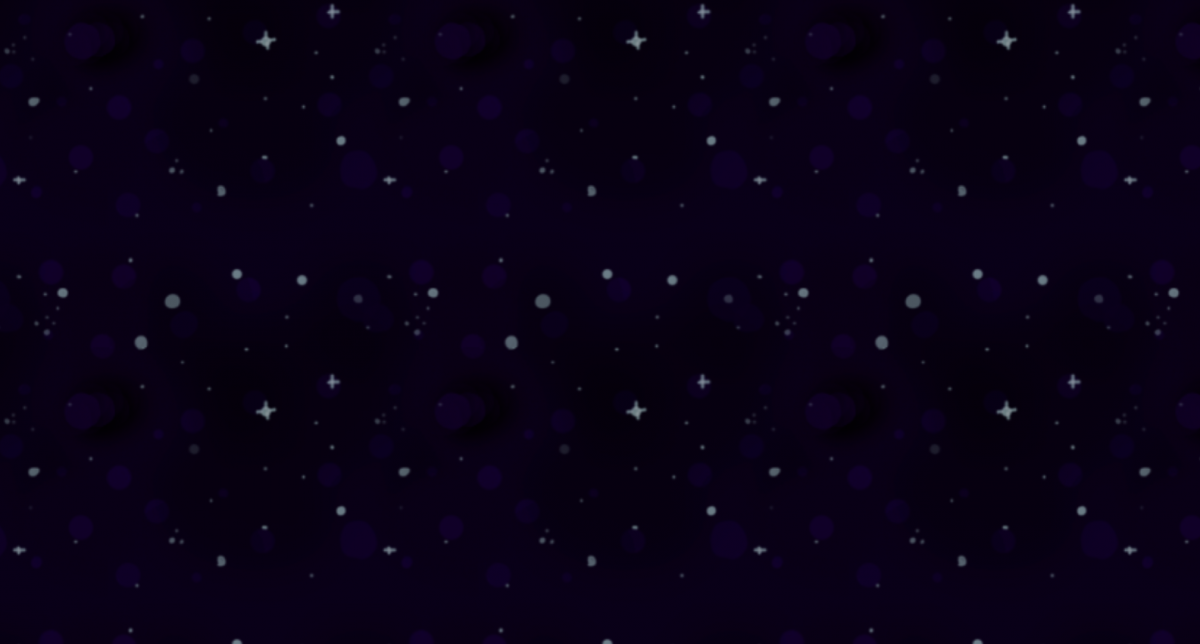
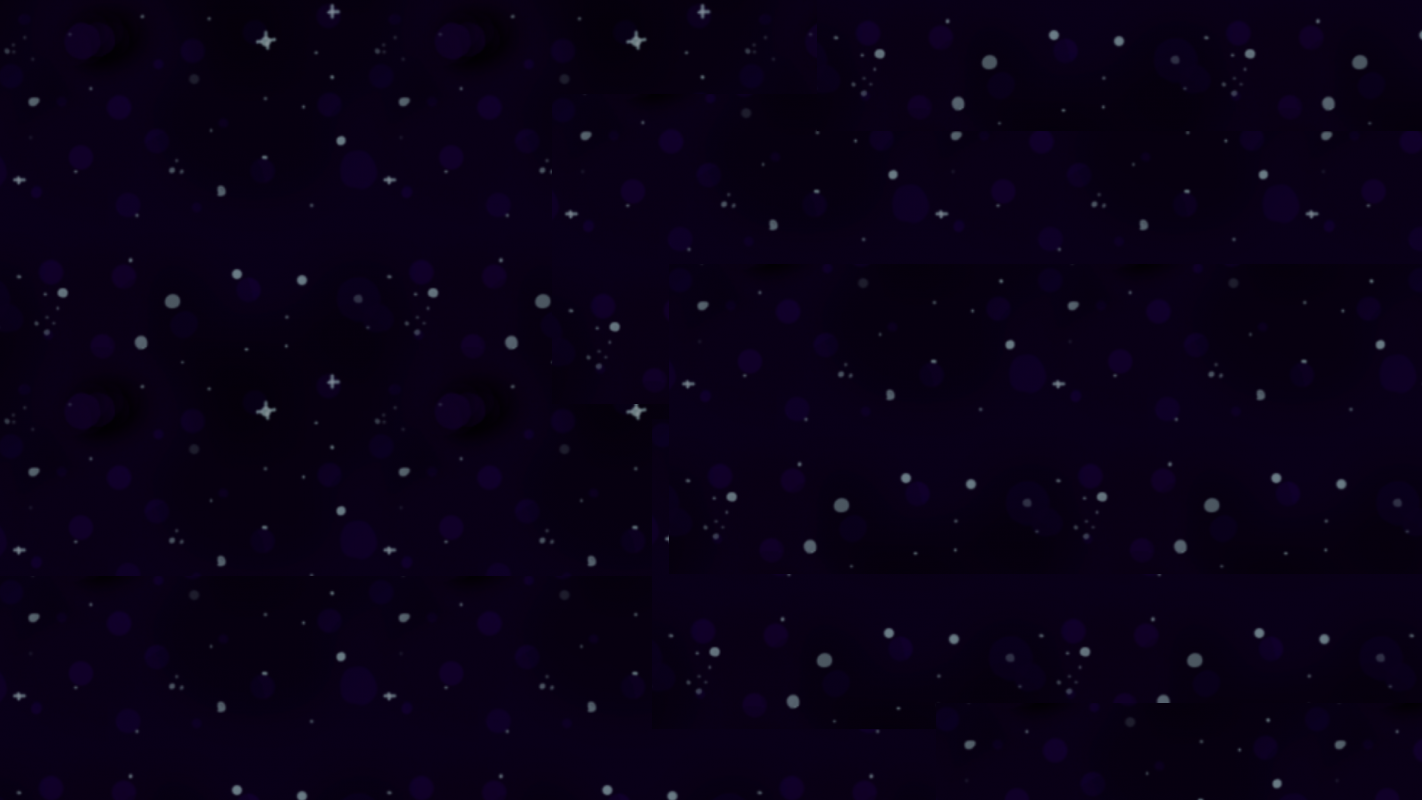
Rework code

diff --git a/src/Game objects/Slava/Player.h b/src/Game objects/Slava/Player.h
@@ -5,9 +5,6 @@
 #ifndef GAMEJAMPROG_PLAYER_H
 #define GAMEJAMPROG_PLAYER_H
 
-#include <iostream>
-#include <ctime>
-#include <list>
 #include "FireBall.h"
 #include "Game object.h"
 #include "Laser.h"
@@ -17,23 +14,11 @@ namespace slava {
         Player(const sf::Time & startTime, const sf::Time & endTime) : GameObject(startTime, endTime) {
             left.loadFromFile("../bin/Slava/Player_flip.png");
             right.loadFromFile("../bin/Slava/Player.png");
-
             sprite.setPosition(50, 400);//Игрок
             sprite.setOrigin(16,16);
             sprite.setScale(1.5,1.5);
 
             sprite.setTexture(right);
-
-            livesFont.loadFromFile("../bin/font.ttf");
-            livesText.setFont(livesFont);
-            livesText.setStyle(sf::Text::Style::Underlined);
-            livesText.setCharacterSize(16);
-            livesText.setPosition(100, 0);
-
-            bgTexture.loadFromFile("../bin/Slava/Bg_Slava.png");
-            bg.setTexture(bgTexture);
-            bg.setPosition(0, 0);
-            bg.setScale(2,2);
         }
         void tick(Window & win, gameObjectVec & gameObjects) override {
            if (sf::Keyboard::isKeyPressed(sf::Keyboard::W) && sprite.getGlobalBounds().top > 0 ) {
@@ -57,12 +42,8 @@ namespace slava {
                 }
                 if (laserCollides(win, obj)) {
                     win.restartOnNextFrame = true;
-                    std::cout << "con"<< std::endl;
-                }else{
-                    std::cout<<"notcon"<<std::endl;
                 }
             }
-            livesText.setString("Lives: " + std::to_string(lives));
         }
         bool laserCollides(Window & win, std::unique_ptr<GameObject> & obj) {
             Laser * astr;
@@ -90,21 +71,12 @@ namespace slava {
             }
             return false;
         }
-
         void draw(Window & win) override {
-            win.win.draw(bg);
             win.win.draw(sprite);
         }
         //переменные
         sf::Sprite sprite;
         sf::Texture texture;
-
-        int lives = 3;
-        sf::Text livesText;
-        sf::Font livesFont;
-
-        sf::Texture bgTexture;
-        sf::Sprite bg;
         sf::Texture right, left;
     };
 };

diff --git a/src/main.cpp b/src/main.cpp
@@ -138,6 +138,10 @@ void startGame(Window & win, gameObjectVec & gameObjects) {
     }
 
     //Slava Part
+    gameObjects.push_back(std::make_unique<BasicPicture>(
+            "../bin/Slava/Bg_Slava.png", sf::Vector2f(-20, 0),
+            sf::seconds(40), sf::seconds(65)
+    ));
     gameObjects.push_back(std::make_unique<slava::Player>(
             sf::seconds(40), sf::seconds(65)));
 

diff --git a/src/Game objects/livefish/Player.h b/src/Game objects/livefish/Player.h
@@ -30,7 +30,6 @@ namespace fish {
         void onHide(Window & win) override {
             win.win.setView(win.win.getDefaultView());
         }
-
         void tick(Window & win, gameObjectVec & gameObjects) override {
             updatePlayerAnim(win);
             movePlayer(win);

diff --git a/src/Game objects/Slava/Laser.h b/src/Game objects/Slava/Laser.h
@@ -5,9 +5,6 @@
 #ifndef GAMEJAMPROG_LASER_H
 #define GAMEJAMPROG_LASER_H
 #include "Game object.h"
-#include <iostream>
-#include <ctime>
-#include <list>
 namespace slava{
     class Laser : public  GameObject{
     public:

diff --git a/src/Game objects/Slava/FireBall.h b/src/Game objects/Slava/FireBall.h
@@ -6,9 +6,7 @@
 #define GAMEJAMPROG_FIREBALL_H
 
 #include "Game object.h"
-#include <iostream>
-#include <ctime>
-#include <list>
+
 namespace  slava{
     class FireBall : public GameObject {
     public:
